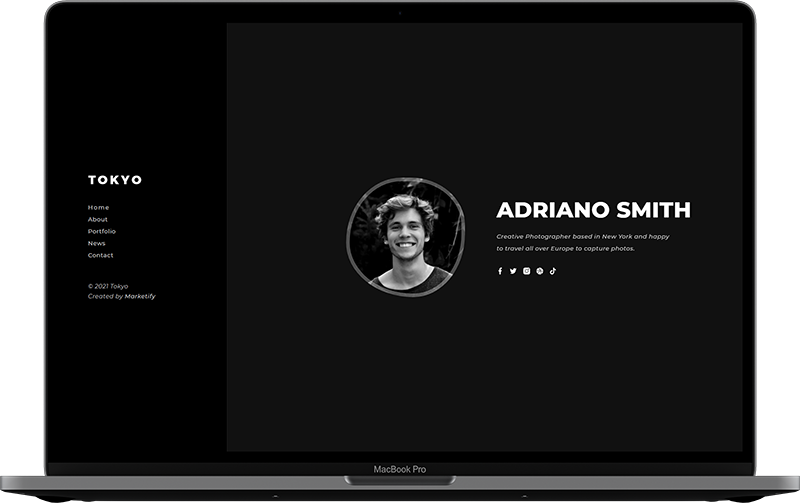
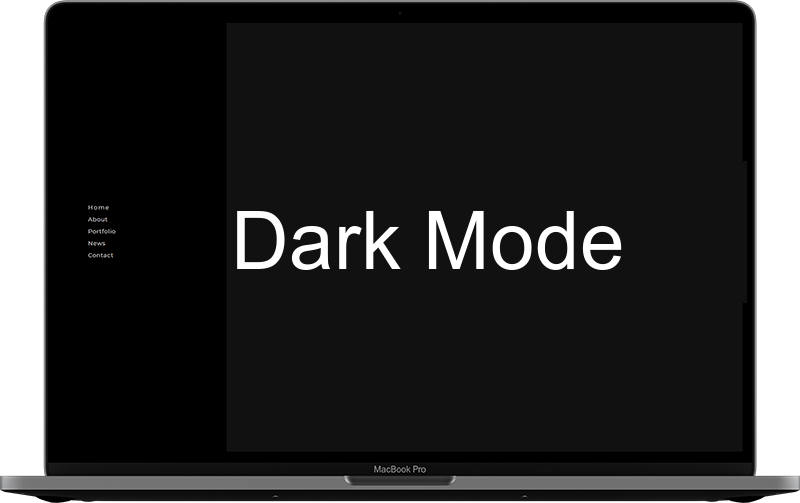
Made some initial changes to landing pg & home pg

Changed region(s): [[0.2812, 0.328, 0.875, 0.5964], [0.0938, 0.328, 0.1875, 0.3877], [0.0938, 0.5666, 0.1875, 0.5964]]

diff --git a/tokyo/components/about/PersonalInfo.jsx b/tokyo/components/about/PersonalInfo.jsx
@@ -6,27 +6,18 @@ const PersonalInfo = () => {
       id: 1,
       colClass: "left",
       info: [
-        {
-          id: 1,
-          name: "Birthday",
-          content: "01.07.1990",
-        },
-        {
-          id: 2,
-          name: "Age",
-          content: "32",
-        },
+
         {
           id: 3,
-          name: "Address",
-          content: "Ave 11, New York, USA",
+          name: "Location",
+          content: "Hudson Valley, NY",
         },
         {
           id: 4,
           name: "Email",
           content: (
             <>
-              <a href="mailto:tokyo@gmail.com">tokyo@gmail.com</a>
+              <a href="mailto:gauravjitchhina@gmail.com">gauravjitchhina@gmail.com</a>
             </>
           ),
         },
@@ -35,7 +26,7 @@ const PersonalInfo = () => {
           name: "Phone",
           content: (
             <>
-              <a href="tel:+77 022 177 05 05">+77 022 177 05 05</a>
+              <a href="tel:+1 845 542 9528">+1 845 542 9528</a>
             </>
           ),
         },
@@ -46,29 +37,19 @@ const PersonalInfo = () => {
       colClass: "right",
       info: [
         {
-          id: 1,
-          name: "Nationality",
-          content: "USA",
-        },
-        {
           id: 2,
-          name: "Study",
-          content: "Univercity of Texas",
+          name: "Education",
+          content: "SUNY University At Buffalo",
         },
         {
           id: 3,
           name: "Degree",
-          content: "Master",
+          content: "Bachelor of Science",
         },
         {
           id: 4,
           name: "Interest",
-          content: "Playing Football",
-        },
-        {
-          id: 5,
-          name: "Freelance",
-          content: "Available",
+          content: "Soccer, Business",
         },
       ],
     },

diff --git a/tokyo/components/social-share/ShareSocial.jsx b/tokyo/components/social-share/ShareSocial.jsx
@@ -15,7 +15,7 @@ import {
 const ShareSocial = () => {
   return (
     <div className="social-share">
-      <FacebookShareButton
+      {/* <FacebookShareButton
         url={"https://www.facebook.com/ibthemes/"}
         quote={
           "We are ib-themes, a quality and dedicated group of individuals who love modern trend like React, Vue and Angular JS Web Templates. We are growing with Modern Web Technologies."
@@ -23,28 +23,28 @@ const ShareSocial = () => {
         hashtag={"#ibthemes"}
       >
         <FacebookIcon size={32} round />
-      </FacebookShareButton>
+      </FacebookShareButton> */}
 
-      <PinterestShareButton
+      {/* <PinterestShareButton
         url={"https://www.pinterest.com/"}
         media={
           "We are ib-themes, a quality and dedicated group of individuals who love modern trend like React, Vue and Angular JS Web Templates. We are growing with Modern Web Technologies."
         }
       >
         <PinterestIcon size={32} round />
-      </PinterestShareButton>
+      </PinterestShareButton> */}
 
-      <TwitterShareButton
+      {/* <TwitterShareButton
         url={"https://twitter.com/ib_themes"}
         title={
           "We are ib-themes, a quality and dedicated group of individuals who love modern trend like React, Vue and Angular JS Web Templates. We are growing with Modern Web Technologies."
         }
       >
         <TwitterIcon size={32} round />
-      </TwitterShareButton>
+      </TwitterShareButton> */}
 
       <LinkedinShareButton
-        url={"https://www.linkedin.com/in/ib-themes-company-469408207/"}
+        url={"www.linkedin.com/in/gary-chhina"}
       >
         <LinkedinIcon size={32} round />
       </LinkedinShareButton>

diff --git a/tokyo/components/about/Resume.jsx b/tokyo/components/about/Resume.jsx
@@ -9,21 +9,15 @@ const Resume = () => {
       resume: [
         {
           id: 1,
-          year: "2014 - 2016",
-          institute: "Oxford University",
-          degree: "Master Degree",
+          year: "2017 - 2021",
+          institute: "Valley Central High School",
+          degree: "Honors Diploma",
         },
         {
           id: 2,
-          year: "2010 - 2014",
-          institute: "Texas University",
-          degree: "Bachelor Degree",
-        },
-        {
-          id: 3,
-          year: "2008 - 2010",
-          institute: "Simone College",
-          degree: "Associate Degree",
+          year: "2021 - Spring 2025",
+          institute: "SUNY University At Buffalo",
+          degree: "Bachelor of Science",
         },
       ],
     },
@@ -34,21 +28,21 @@ const Resume = () => {
       resume: [
         {
           id: 1,
-          year: "2018 - Now",
-          institute: "Envato Market",
-          degree: "Exclusive Author",
+          year: "March 2024 - August 2024",
+          institute: "Securitas Technology",
+          degree: "Backend Software Engineer Intern",
         },
         {
           id: 2,
-          year: "2016 - 2018",
-          institute: "RGB Studio",
-          degree: "UX Designer",
+          year: "May 2022 - January 2024",
+          institute: "DBL Express",
+          degree: "Technology Intern",
         },
         {
           id: 3,
-          year: "2012 - 2016",
-          institute: "Innovations Park",
-          degree: "Web Designer",
+          year: "2019 - 2021",
+          institute: "Nanak LLC",
+          degree: "Associate Store Manager",
         },
       ],
     },

diff --git a/tokyo/components/about/Intro.jsx b/tokyo/components/about/Intro.jsx
@@ -3,22 +3,18 @@ import React from "react";
 const Intro = () => {
   const introContent = {
     image: "/img/slider/1.jpg",
-    name: "Adriano Smith",
-    designation: "Web Developer",
+    name: "Gary Chhina",
+    designation: "Software Engineer",
     text: (
       <>
-        <p>
-          Hi, my name is Adriano Smith and I began using WordPress when it first
-          began. I’ve spent most of my waking hours for the last ten years
-          designing, programming and operating WordPress sites.
-        </p>
-        <p>
-          One of my specialties is taking an idea from scratch and creating a
-          full-fledged platform. I go beyond to produce sites with a unique,
-          outstanding, contemporary look-and-feel. With extensive knowledge of
-          web mechanics, I’m able to optimize complex integrations to require
-          little-to-no maintenance while running on their own for years.
-        </p>
+<p>
+  Hi, my name is Gary Chhina, and I’m a senior Computer Science student at the University at Buffalo. Over the past few years, I’ve focused on backend engineering and cloud-based development, working with technologies like Google Cloud Platform, Python, and React.
+</p>
+<p>
+  I enjoy building scalable applications and setting up efficient data pipelines that support real-world use. With hands-on experience in backend systems and cloud infrastructure, I’m dedicated to creating solutions that are both reliable and impactful.
+</p>
+
+
       </>
     ),
   };

diff --git a/tokyo/components/home/Home.jsx b/tokyo/components/home/Home.jsx
@@ -12,21 +12,20 @@ const Home = () => {
             <div
               className="image avatar_img"
               style={{
-                backgroundImage: "url(/img/slider/1.jpg)",
+                backgroundImage: "url(/img/slider/Headshot.jpg)",
               }}
             ></div>
             {/* END AVATAR IMAGE */}
           </div>
           {/* END AVATAR */}
           <div className="details">
-            <h3 className="name">Adriano Smith</h3>
+            <h3 className="name">Gary Chhina</h3>
             <h4 className="typer">
               <ReactTyped
                 strings={[
-                  "Programmer",
-                  "Investigative reporter",
-                  "Photographer",
-                  "Writer",
+                  "Software Engineer",
+                  "Backend Engineer",
+                  "Fullstack Engineer",
                 ]}
                 loop
                 typeSpeed={80}
@@ -34,8 +33,8 @@ const Home = () => {
             </h4>
 
             <p className="job">
-              Creative Photographer based in New York and happy to travel all
-              over Europe to capture photos.
+              Senior CS student at the University at Buffalo focused on backend and 
+              full-stack engineering, passionate about building scalable software.
             </p>
             {/* END JOB */}
             <Social />

diff --git a/tokyo/components/preview/index.jsx b/tokyo/components/preview/index.jsx
@@ -29,12 +29,12 @@ const Preview = () => {
     {
       id: 1,
       img: "/img/intro/light.png",
-      title: "Light Demo",
+      title: "View in Light Mode",
     },
     {
       id: 2,
       img: "/img/intro/dark.png",
-      title: "Dark Demo",
+      title: "View in Dark Mode",
     },
   ];
 
@@ -53,25 +53,12 @@ const Preview = () => {
           <div className="short_info">
             <img src="/img/logo/dark.png" alt="logo" />
             <h3>
-              Personal Portfolio <strong>React NextJS</strong> Template
+              Welcome to <strong>Gary Chhina's</strong> Personal Website
             </h3>
+            <h3>Choose Your Light/Dark Preference to Navigate to Homepage!</h3>
           </div>
           {/* END SHORT INFO */}
 
-          <div className="tokyo_tm_intro_fixed_price">
-            <span className="anim"></span>
-            <span className="anim"></span>
-            <span className="anim"></span>
-            <a
-              href="https://themeforest.net/user/ib-themes"
-              className="pricing-info anim"
-              target="_blank"
-              rel="noreferrer"
-            >
-              Buy
-            </a>
-          </div>
-          {/* END FIXED PRICE TAG */}
 
           <div className="container">
             <Slider {...settings}>

diff --git a/tokyo/components/about/Skills.jsx b/tokyo/components/about/Skills.jsx
@@ -9,7 +9,7 @@ const Skills = () => {
       progress: [
         {
           id: 1,
-          skillName: "WordPress",
+          skillName: "Python",
           skillValue: "95",
         },
         {
@@ -32,17 +32,17 @@ const Skills = () => {
         {
           id: 1,
           skillName: "English",
-          skillValue: "90",
+          skillValue: "100",
         },
         {
           id: 2,
-          skillName: "Russian",
-          skillValue: "90",
+          skillName: "Punjabi",
+          skillValue: "80",
         },
         {
           id: 3,
-          skillName: "Arabic",
-          skillValue: "85",
+          skillName: "Hindi",
+          skillValue: "75",
         },
       ],
     },
